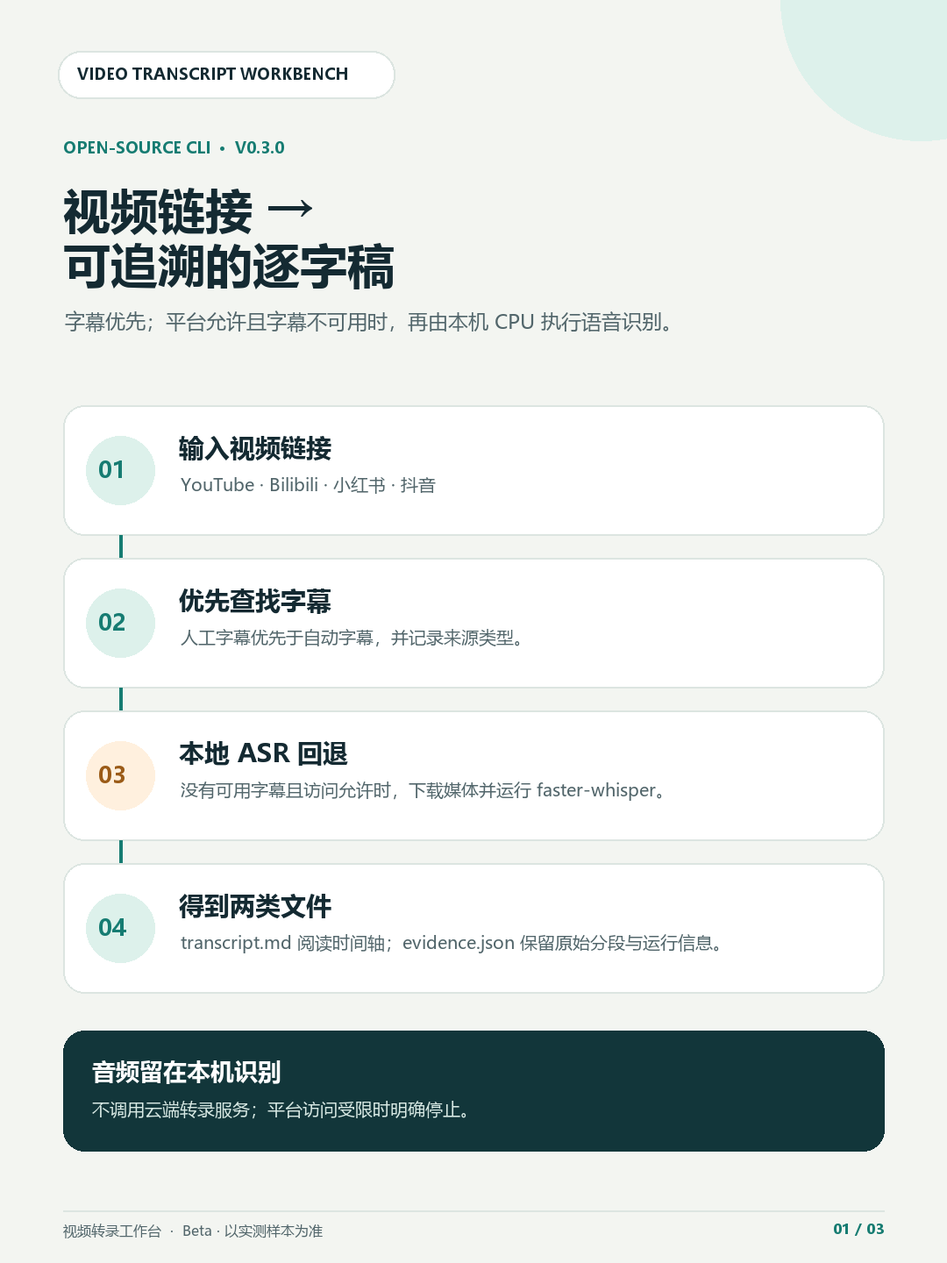
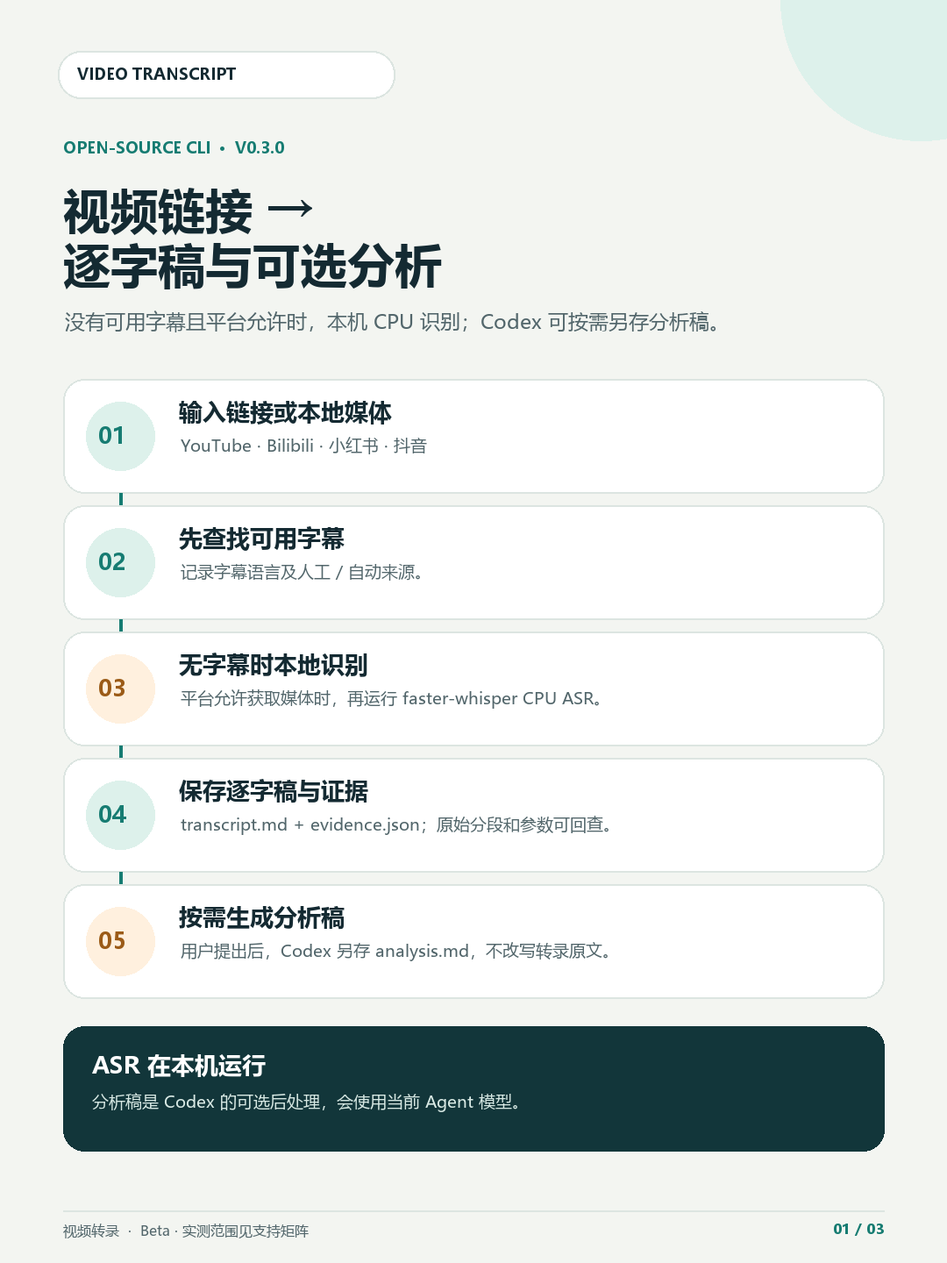
docs: clarify transcript and Codex analysis workflow

diff --git a/docs/assets/generate_social_cards.py b/docs/assets/generate_social_cards.py
@@ -60,59 +60,63 @@ def base(title, subtitle, page):
     # quiet editorial accents
     d.ellipse((890, -160, 1210, 160), fill=MINT)
     rounded(d, (66, 58, 450, 112), 26, fill=WHITE, outline=LINE, width=2)
-    d.text((88, 71), "VIDEO TRANSCRIPT WORKBENCH", font=font(18, True), fill=INK)
+    d.text((88, 71), "VIDEO TRANSCRIPT", font=font(18, True), fill=INK)
     d.text((72, 155), "OPEN-SOURCE CLI  ·  V0.3.0", font=font(18, True), fill=TEAL)
     paragraph(d, (72, 202), title, font(54, True), INK, 910, leading=7, max_lines=2)
     paragraph(d, (74, 350), subtitle, font(23), MUTED, 900, leading=8, max_lines=2)
     d.line((72, 1380, 1008, 1380), fill=LINE, width=2)
-    d.text((72, 1392), "视频转录工作台  ·  Beta · 以实测样本为准", font=font(16), fill=MUTED)
+    d.text((72, 1392), "视频转录  ·  Beta · 实测范围见支持矩阵", font=font(16), fill=MUTED)
     d.text((950, 1390), page, font=font(16, True), fill=TEAL)
     return im, d
 
 
 def card_workflow():
-    im, d = base("视频链接 →\n可追溯的逐字稿", "字幕优先；平台允许且字幕不可用时，再由本机 CPU 执行语音识别。", "01 / 03")
+    im, d = base("视频链接 →\n逐字稿与可选分析", "没有可用字幕且平台允许时，本机 CPU 识别；Codex 可按需另存分析稿。", "01 / 03")
     steps = [
-        ("01", "输入视频链接", "YouTube · Bilibili · 小红书 · 抖音"),
-        ("02", "优先查找字幕", "人工字幕优先于自动字幕，并记录来源类型。"),
-        ("03", "本地 ASR 回退", "没有可用字幕且访问允许时，下载媒体并运行 faster-whisper。"),
-        ("04", "得到两类文件", "transcript.md 阅读时间轴；evidence.json 保留原始分段与运行信息。"),
+        ("01", "输入链接或本地媒体", "YouTube · Bilibili · 小红书 · 抖音"),
+        ("02", "先查找可用字幕", "记录字幕语言及人工 / 自动来源。"),
+        ("03", "无字幕时本地识别", "平台允许获取媒体时，再运行 faster-whisper CPU ASR。"),
+        ("04", "保存逐字稿与证据", "transcript.md + evidence.json；原始分段和参数可回查。"),
+        ("05", "按需生成分析稿", "用户提出后，Codex 另存 analysis.md，不改写转录原文。"),
     ]
-    y = 462
+    y = 432
+    row_h = 130
+    row_step = 144
     for i, (num, title, desc) in enumerate(steps):
-        rounded(d, (72, y, 1008, y + 148), 24, fill=WHITE, outline=LINE, width=2)
-        d.ellipse((98, y + 35, 176, y + 113), fill=MINT if i != 2 else PALE_ORANGE)
-        d.text((112, y + 55), num, font=font(26, True), fill=TEAL if i != 2 else "#9B5B17")
-        d.text((204, y + 28), title, font=font(29, True), fill=INK)
-        paragraph(d, (206, y + 76), desc, font(20), MUTED, 745, leading=4, max_lines=2)
+        accent = i in (2, 4)
+        rounded(d, (72, y, 1008, y + row_h), 24, fill=WHITE, outline=LINE, width=2)
+        d.ellipse((98, y + 26, 176, y + 104), fill=PALE_ORANGE if accent else MINT)
+        d.text((112, y + 46), num, font=font(26, True), fill="#9B5B17" if accent else TEAL)
+        d.text((204, y + 18), title, font=font(27, True), fill=INK)
+        paragraph(d, (206, y + 62), desc, font(19), MUTED, 745, leading=3, max_lines=2)
         if i < len(steps) - 1:
-            d.line((137, y + 148, 137, y + 177), fill=TEAL, width=4)
-        y += 174
-    rounded(d, (72, 1175, 1008, 1312), 24, fill=DARK)
-    d.text((105, 1202), "音频留在本机识别", font=font(27, True), fill=WHITE)
-    d.text((105, 1250), "不调用云端转录服务；平台访问受限时明确停止。", font=font(20), fill="#D8E9E4")
+            d.line((137, y + row_h, 137, y + row_step), fill=TEAL, width=4)
+        y += row_step
+    rounded(d, (72, 1170, 1008, 1312), 24, fill=DARK)
+    d.text((105, 1195), "ASR 在本机运行", font=font(27, True), fill=WHITE)
+    d.text((105, 1242), "分析稿是 Codex 的可选后处理，会使用当前 Agent 模型。", font=font(19), fill="#D8E9E4")
     return im
 
 
 def card_output():
-    im, d = base("输出不是一段纯文本", "Markdown 方便阅读；Evidence 保留可以回查的原始分段和运行信息。", "02 / 03")
+    im, d = base("三类文件，各自分开", "CLI 保存原稿和证据；Codex 可按需另存分析稿，不覆盖原始转录。", "02 / 03")
     # Transcript mock
-    rounded(d, (72, 432, 1008, 912), 28, fill=WHITE, outline=LINE, width=2)
-    rounded(d, (98, 458, 328, 504), 20, fill=MINT)
+    rounded(d, (72, 432, 1008, 794), 28, fill=WHITE, outline=LINE, width=2)
+    rounded(d, (98, 452, 328, 498), 20, fill=MINT)
     d.text((118, 468), "transcript.md", font=font(19, True, mono=True), fill=TEAL)
-    rounded(d, (732, 458, 974, 504), 20, fill=PALE_ORANGE)
-    d.text((752, 468), "格式示意 · 虚构文本", font=font(16, True), fill="#94581A")
-    d.text((106, 543), "示例视频逐字稿", font=font(27, True), fill=INK)
-    d.line((106, 592, 974, 592), fill=LINE, width=2)
-    d.text((108, 625), "00:00:01.200 — 00:00:03.600", font=font(19, True, mono=True), fill=TEAL)
-    paragraph(d, (108, 665), "今天我们聊聊语音识别的工程设计。", font(24), INK, 830, leading=7)
-    d.text((108, 734), "00:00:04.000 — 00:00:06.200", font=font(19, True, mono=True), fill=TEAL)
-    paragraph(d, (108, 774), "每个片段都有时间范围，方便回听核对。", font(24), INK, 830, leading=7)
-    d.text((108, 844), "……", font=font(24), fill=MUTED)
+    rounded(d, (732, 452, 974, 498), 20, fill=PALE_ORANGE)
+    d.text((752, 462), "虚构格式示例", font=font(16, True), fill="#94581A")
+    d.text((106, 520), "示例视频逐字稿", font=font(25, True), fill=INK)
+    d.line((106, 560, 974, 560), fill=LINE, width=2)
+    d.text((108, 582), "00:00:01.200 — 00:00:03.600", font=font(18, True, mono=True), fill=TEAL)
+    paragraph(d, (108, 620), "今天我们聊聊语音识别的工程设计。", font(22), INK, 830, leading=5)
+    d.text((108, 680), "00:00:04.000 — 00:00:06.200", font=font(18, True, mono=True), fill=TEAL)
+    paragraph(d, (108, 718), "每个片段都有时间范围，方便回听核对。", font(22), INK, 830, leading=5)
+    d.text((108, 762), "……", font=font(22), fill=MUTED)
     # Evidence mock
-    rounded(d, (72, 942, 1008, 1270), 28, fill=DARK)
-    rounded(d, (98, 968, 306, 1014), 20, fill="#204A4B")
-    d.text((117, 977), "evidence.json", font=font(19, True, mono=True), fill="#BCE5D9")
+    rounded(d, (72, 812, 1008, 1027), 28, fill=DARK)
+    rounded(d, (98, 831, 306, 877), 20, fill="#204A4B")
+    d.text((117, 840), "evidence.json", font=font(19, True, mono=True), fill="#BCE5D9")
     code = [
         '{ "method": "local_asr",',
         '  "model": "small", "device": "cpu",',
@@ -120,18 +124,24 @@ def card_output():
         '  "segments": [{"start": 1.2, "end": 3.6, ...}] }',
     ]
     for i, line in enumerate(code):
-        d.text((108, 1042 + i * 45), line, font=font(20, mono=True), fill="#E6F2EF")
-    d.text((74, 1300), "内容为演示示例，不来自真实用户视频。", font=font(17, True), fill=MUTED)
+        d.text((108, 891 + i * 35), line, font=font(17, mono=True), fill="#E6F2EF")
+    rounded(d, (72, 1045, 1008, 1285), 28, fill=PALE_ORANGE, outline=LINE, width=2)
+    rounded(d, (98, 1064, 306, 1110), 20, fill=WHITE)
+    d.text((117, 1073), "analysis.md", font=font(19, True, mono=True), fill="#94581A")
+    d.text((106, 1130), "Codex 按需生成分析文稿", font=font(25, True), fill=INK)
+    paragraph(d, (108, 1175), "基于逐字稿整理摘要、观点和时间戳依据。", font(20), MUTED, 830, leading=4, max_lines=2)
+    d.text((108, 1240), "单独保存，不覆盖原始转录。", font=font(18, True), fill="#94581A")
+    d.text((74, 1302), "三份文件为虚构示例；analysis.md 不是 CLI 默认输出。", font=font(16, True), fill=MUTED)
     return im
 
 
 def card_status():
-    im, d = base("平台结果按样本披露", "提取器能识别平台，不等于每条视频都能访问或转录。", "03 / 03")
+    im, d = base("多轮平台实测，按路径披露", "公开样本检查与自动化回归分别统计，成功结果仍按具体路径说明。", "03 / 03")
     rows = [
-        ("YouTube", "人工 / 自动字幕：实测样本通过", "PASS", TEAL, MINT),
-        ("Bilibili", "音轨下载 → 本地 ASR：样本通过；字幕未验证", "样本通过", TEAL, MINT),
-        ("小红书", "HTTPS MP4 → 本地 ASR：1 个样本通过", "单样本", TEAL, MINT),
-        ("抖音 Douyin", "fresh-cookie challenge 阻断；在线端到端未通过", "受限", "#9B5B17", PALE_ORANGE),
+        ("YouTube", "5 个公开视频做字幕和下载诊断；2 条人工字幕、1 条自动字幕路径通过。", "字幕通过", TEAL, MINT),
+        ("Bilibili", "R0 检查 6 个视频，R1 再查 3 个页面；1 条无字幕音轨 ASR 成功，字幕未验证。", "ASR 通过", TEAL, MINT),
+        ("小红书", "多轮链接、网络和 HTTPS 媒体诊断；1 条公开视频完成 MP4 → ASR。", "端到端通过", TEAL, MINT),
+        ("抖音 Douyin", "公开样本复核仍遇 fresh-cookie challenge；在线转录未通过。", "受限", "#9B5B17", PALE_ORANGE),
     ]
     y = 430
     for platform, detail, badge, color, pale in rows:
@@ -143,8 +153,8 @@ def card_status():
         paragraph(d, (106, y + 88), detail, font(20), MUTED, 850, leading=5, max_lines=2)
         y += 177
     rounded(d, (72, 1150, 1008, 1312), 25, fill=DARK)
-    d.text((104, 1178), "准确率还没有 CER 基准", font=font(26, True), fill=WHITE)
-    paragraph(d, (106, 1226), "目前没有人工校订参考稿；这些流程实测不代表识别准确率，也不保证其他链接成功。", font(18), "#D8E9E4", 850, leading=4, max_lines=3)
+    d.text((104, 1178), "86 项自动化回归测试", font=font(26, True), fill=WHITE)
+    paragraph(d, (106, 1226), "测试含合成案例，不等于 86 条真实视频。ASR 也尚无人工校订 CER 基准。", font(18), "#D8E9E4", 850, leading=4, max_lines=3)
     return im
 
 

diff --git a/README.en.md b/README.en.md
@@ -1,11 +1,13 @@
-# Video Transcript Workbench
+# Video Transcript
 
-**Online CLI Beta v0.3.0**<br>
+**Video Transcript Workbench · Online CLI Beta v0.3.0**<br>
 [简体中文](README.md) · [Online platform verification matrix](docs/online-support-matrix.md)
 
-Video Transcript Workbench is a command-line tool for turning online video links and local media into traceable transcripts. It prefers available subtitles, then uses local CPU speech recognition when subtitles are unavailable and platform access allows media retrieval. Outputs include timestamped Markdown and `evidence.json`.
+Video Transcript handles online links and local media. For online links it checks for usable subtitles first. When none match, and the platform permits media retrieval and the machine has enough resources, it runs CPU speech recognition locally. This provides a path for some videos without usable subtitles, subject to platform access.
 
-> This is a sample-verified Beta. It does not guarantee that every video or network environment will work. Claims are limited to the specific paths marked PASS in the support matrix.
+The CLI writes a timestamped `transcript.md` and an `evidence.json` with raw segments, source, and run settings. With the Codex project Skill, users can also request a separate analysis document based on the transcript. That is an optional agent step; it does not rewrite the transcript and is not generated by the CLI by default.
+
+> The Beta has gone through multiple real-platform sample checks and automated regression runs. Public claims are scoped by platform and processing path; they do not guarantee success for every video.
 
 ## What is this, and how do I use it?
 
@@ -15,9 +17,9 @@ The core product is a standalone Python command-line tool (CLI). This repository
 
 1. Open the repository root in Codex.
 2. Install the CLI using the instructions below and make a local Whisper model available.
-3. Ask for a transcript directly, or invoke $video-transcript-workbench explicitly. For example: “Use $video-transcript-workbench to transcribe this link in Chinese and save it under D:\transcripts\run-01.”
+3. Ask for a transcript directly, or invoke the shorter Skill name `$video-transcript`. For example: “Use `$video-transcript` to transcribe this link in Chinese and save it under D:\transcripts\run-01.”
 
-The Skill is at [.codex/skills/video-transcript-workbench/SKILL.md](.codex/skills/video-transcript-workbench/SKILL.md). It chooses the online-link, subtitles-only, or local-media entry point and checks transcript.md and evidence.json. It does not install dependencies, download model weights, or bypass platform checks.
+The Skill is at [.codex/skills/video-transcript/SKILL.md](.codex/skills/video-transcript/SKILL.md). It selects the online-link, subtitles-only, or local-media entry point and checks the CLI output. If you request analysis, Codex reads the transcript and writes a separate `analysis.md`; the transcript may be processed by the active Codex model. The analysis file stays separate from the source transcript.
 
 ### Use the CLI on its own
 
@@ -36,24 +38,25 @@ Other agents can call the CLI if they can access a local terminal and files, but
 ASR runs locally. If you ask a cloud agent to read or summarize the transcript, the text may be processed by that agent's model service. For transcription only, you can run the CLI directly and keep the output local.
 ## Workflow
 
-![Workflow: try manual and automatic subtitles first, then local CPU ASR when platform access permits, and save transcript and evidence files](docs/assets/xhs-01-workflow.png)
+![Workflow: subtitles first; local CPU ASR when subtitles are unavailable and platform access permits; Codex can optionally write a separate analysis document](docs/assets/xhs-01-workflow.png)
 
 1. Provide a YouTube, Bilibili, Douyin, or Xiaohongshu video link, or select a local media file.
 2. For online links, look for a matching manual subtitle track, then an automatic track.
 3. If no usable subtitles are available, retrieve audio or an audio-containing MP4 only when normal platform access permits, then run faster-whisper locally on CPU/int8.
-4. Write the timestamped transcript to `transcript.md` and raw segments, source, and run settings to `evidence.json`.
+4. The CLI writes the timestamped transcript to `transcript.md` and raw segments, source, and run settings to `evidence.json`.
+5. When the user asks for analysis, Codex can use the transcript to create a separate `analysis.md` without changing the transcript.
 
 Original subtitle and ASR segment text is preserved. Formatting does not overwrite raw segments. The tool does not call a cloud transcription service, read browser cookies, or bypass login, human-verification, or regional restrictions.
 
 ## Output preview
 
-![Illustrative Markdown transcript and evidence JSON layout with fictional content](docs/assets/xhs-02-output-preview.png)
+![Illustrative outputs: transcript.md and evidence.json from the CLI, plus an optional separate analysis.md from Codex; all content is fictional](docs/assets/xhs-02-output-preview.png)
 
-The title, transcript, and JSON shown above are **fictional format examples**. They do not come from a user's video and do not indicate transcription accuracy.
+The transcript, JSON, and analysis text shown above are **fictional format examples**. `analysis.md` is not produced by the CLI; Codex creates it only when requested. The examples do not indicate transcription accuracy.
 
 ## Online platform status
 
-![Sample-scoped platform status: YouTube subtitle retrieval, Bilibili audio ASR, and one Xiaohongshu MP4 ASR sample passed; Douyin access is blocked](docs/assets/xhs-03-platform-status.png)
+![Platform verification scope: multiple public-video checks, successful paths, and access limits; 86 automated regression tests are counted separately](docs/assets/xhs-03-platform-status.png)
 
 | Platform and path | Status | Verification |
 |---|---|---|
@@ -66,7 +69,15 @@ The title, transcript, and JSON shown above are **fictional format examples**. T
 | Xiaohongshu subtitle retrieval | Not tested | No real subtitle-track parsing success has been verified. |
 | Douyin online transcription | Restricted | The real sample hit a fresh-cookie challenge; no online end-to-end transcription passed, and the tool does not read or obtain credentials. |
 
-See the [online support matrix](docs/online-support-matrix.md) for sample details and user-visible limitations. **There is no CER benchmark against human-verified references, so this project makes no model-ranking or universal accuracy claim.**
+### Sample coverage
+
+- YouTube: five distinct public videos were used for subtitle, parser, or media-transfer diagnostics. Manual subtitle retrieval succeeded on two videos and automatic subtitle retrieval on one. Two transfer diagnostics stopped at a platform access check; only one was a no-subtitle ASR fallback sample.
+- Bilibili: R0 checked six public videos, and R1 checked three additional public pages for metadata and subtitle tracks. One no-subtitle audio sample completed local ASR; no real subtitle-success sample is available.
+- Xiaohongshu: multiple URL, network, and HTTPS-media diagnostics were run; one public video completed the MP4-to-local-ASR path.
+- Douyin: a public sample was rechecked and hit a fresh-cookie challenge; online transcription did not complete.
+- The 86 automated regression tests are counted separately. They include offline and synthetic cases and do not represent 86 real videos.
+
+See the [online support matrix](docs/online-support-matrix.md) for sample coverage and user-visible limitations. Public-video checks, successful paths, and automated regression tests are reported separately. **There is no CER benchmark against human-verified references, so this project makes no model-ranking or universal accuracy claim.**
 
 ## Commands
 

diff --git a/docs/xiaohongshu/图文发布素材.md b/docs/xiaohongshu/图文发布素材.md
@@ -6,15 +6,15 @@
 
 建议按以下顺序作为三张竖版图：
 
-1. [处理流程图](../assets/xhs-01-workflow.png)：说明从视频链接到字幕/本地 ASR，再到逐字稿和证据文件。
-2. [输出效果示意](../assets/xhs-02-output-preview.png)：展示 Markdown 时间轴和 evidence JSON 的结构。示例文字为虚构内容。
-3. [平台实测状态](../assets/xhs-03-platform-status.png)：用样本级事实说明哪些路径通过、受限或尚未验证。
+1. [处理流程图](../assets/xhs-01-workflow.png)：说明字幕优先、本地 ASR 回退，以及 Codex 按需生成分析文稿的流程。
+2. [输出效果示意](../assets/xhs-02-output-preview.png)：区分 CLI 生成的 Markdown 时间轴、evidence JSON 和 Codex 按需生成的独立分析稿。示例文字为虚构内容。
+3. [平台实测状态](../assets/xhs-03-platform-status.png)：披露公开视频检查范围、通过路径和访问限制；不把 86 项自动化回归当成视频样本数。
 
 源图均为 1080 × 1440 PNG。可编辑生成脚本：[generate_social_cards.py](../assets/generate_social_cards.py)。
 
 ## 标题候选
 
-- 视频链接转逐字稿：字幕优先，没字幕再本地识别
+- 视频链接转文字：有字幕先提取，没有字幕时尝试本地识别
 - 一个本地优先的视频转录 CLI，终于跑通真实链路
 - 转录结果不只是一段文字：还保留时间轴和来源证据
 
@@ -22,18 +22,22 @@
 
 ## 图文正文草稿
 
-最近把一个开源 CLI 做到了可以真实跑通的阶段：输入在线视频链接，先尝试获取人工字幕或自动字幕；在平台允许访问、也没有可用字幕时，再下载媒体并在本机用 CPU 做语音识别。
+这是一个视频转录 CLI，最近也加上了 Codex 项目 Skill。输入在线视频链接后，工具先尝试获取人工或自动字幕；没有可用字幕且平台允许媒体访问时，再下载音轨或带音轨视频，在本机用 CPU 做语音识别。除了利用已有字幕，它也提供无字幕时的本地 ASR 路径，实际能否使用仍由平台访问条件决定。
 
-结果会生成两份文件：
+CLI 会生成两份文件：
 
 - `transcript.md`：带时间轴、方便阅读的逐字稿
 - `evidence.json`：保留原始分段、来源、模型和运行信息，便于回看结果是怎么来的
 
-目前的实测是按具体样本记录的：YouTube 的人工和自动字幕路径通过；Bilibili 的无字幕音轨转录通过；小红书有一条公开视频完成 HTTPS MP4 到本地 ASR 的完整流程。抖音在线流程仍被平台访问验证阻断，Bilibili 和小红书的字幕成功路径也还没有实测通过。
+如果在 Codex 中明确要求分析，项目 Skill 可以基于逐字稿另存 `analysis.md`，整理摘要、观点和对应时间戳，不改写原始转录。这一步由当前 Agent 模型完成，逐字稿会进入该模型的处理上下文；CLI 本身不生成分析稿。
+
+此前对 YouTube 使用了 5 条公开视频做字幕、解析和媒体传输诊断，3 条字幕样本路径成功；Bilibili 在 R0 检查了 6 个公开视频，R1 又检查 3 个页面，其中一条完成无字幕音轨转录；小红书经过多轮 URL、网络和 HTTPS 媒体诊断后，有一条公开视频完成端到端转录。抖音公开样本仍遇平台访问验证。86 项自动化回归测试单独统计，不等于 86 条真实视频。
+
+完整范围和具体状态见 README 的[在线平台实测矩阵](../online-support-matrix.md)。样本测试说明哪些路径曾经跑通，不代表所有视频都能处理。
 
 所以这不是“四个平台全部畅通”的承诺。平台可能要求验证、没有字幕或无法提供可访问媒体；遇到这些情况，工具会报告限制，不读取浏览器 Cookie，也不绕过平台检查。
 
-另一个我很看重的点是：原始识别分段会保存在证据文件里，Markdown 负责时间轴展示，不会用润色后的文字覆盖原始结果。目前还没有人工校订稿 CER 基准，因此也不宣称某个模型准确率最高。
+原始识别分段会保存在证据文件里，逐字稿负责展示时间轴；Codex 生成的分析稿则另存一份。现在还没有人工校订稿 CER 基准，因此不宣称某个模型准确率最高。
 
 项目采用 MIT 许可证。欢迎看代码、提问题或参与改进。Windows 安装步骤、命令示例和完整样本状态放在项目 README。
 

diff --git a/.codex/skills/video-transcript/SKILL.md b/.codex/skills/video-transcript/SKILL.md
@@ -1,11 +1,11 @@
 ---
-name: video-transcript-workbench
-description: Use the local Video Transcript Workbench CLI to transcribe supported video links or local audio/video and verify the output files. Use when a user asks to create a transcript from media; not for changing the transcription engine.
+name: video-transcript
+description: Use the local Video Transcript CLI to transcribe supported video links or local audio/video, verify outputs, or create a separate analysis note from a transcript when requested. Do not use for changing the transcription engine.
 ---
 
-# Video Transcript Workbench
+# Video Transcript
 
-Use the installed Video Transcript Workbench CLI as the transcription engine. This skill routes the request and checks the output; it does not perform ASR itself.
+Use the installed Video Transcript CLI entry points as the transcription engine. This skill routes the request and checks the output; it does not perform ASR itself.
 
 ## Choose the command
 
@@ -43,8 +43,18 @@ After the command exits:
 - Report output paths, selected method (manual subtitle, automatic subtitle, or local ASR), and model/device when available. Do not paste the full transcript unless asked.
 - Never claim a CER score, accuracy ranking, or universal platform compatibility; the project has no human-reference CER benchmark.
 
+## Optional analysis document
+
+Only create an analysis document when the user asks for analysis, a summary, or another written interpretation. The CLI does not generate this file.
+
+1. Confirm that a successful `transcript.md` exists. If transcription failed, report that first and do not invent an analysis from partial evidence.
+2. Tell the user that analysis requires the agent to read the transcript and that the text may be processed by the active model service. When the user requested analysis, continue with that requested task; do not send the transcript to a separate service.
+3. Create `analysis.md` next to the transcript, or use the path requested by the user. If the target already exists, choose a new filename or ask where to save it. Never overwrite `transcript.md` or `evidence.json`.
+4. Shape the analysis to the user's request. If no format is specified, provide a concise summary, key points with transcript time ranges, and a short section for claims or uncertainties that need verification.
+5. Separate what the speaker said from the agent's interpretation. Refer to timestamps for transcript-grounded claims, flag possible ASR errors when wording is unclear, and do not silently correct the source transcript. Do not add outside research unless requested.
+
 ## Privacy and access
 
-The CLI keeps ASR local and does not use cloud transcription. Online access and downloaded media still depend on platform rules and the user's rights. Do not retrieve credentials or attempt to defeat login, human-verification, permission, or regional checks.
+The CLI keeps ASR local and does not use cloud transcription. An optional analysis document is generated by the active agent/model, not by the local CLI. Online access and downloaded media still depend on platform rules and the user's rights. Do not retrieve credentials or attempt to defeat login, human-verification, permission, or regional checks.
 
 If the user asks the agent to read, summarize, translate, or analyze the transcript, explain that this may send transcript text to the agent's model service when applicable. If they only asked for transcription, return the local output paths without loading the transcript contents.

diff --git a/docs/online-support-matrix.md b/docs/online-support-matrix.md
@@ -15,6 +15,19 @@ Updated: 2026-10-20. This is a public, sample-scoped compatibility summary. PASS
 | Xiaohongshu audio fallback when subtitles are unavailable | PASS (one sample) | Page-provided HTTPS `og:video` MP4 returned 206 `video/mp4` for a 1 KiB range probe; bounded 85,787,212-byte MP4 download then passed PyAV audio/video validation and small/CPU/int8 ASR, producing 408 segments. |
 | Local media CPU transcription | PASS | Windows Python 3.11.9, cached small model, CPU/int8 real run. |
 
+## Real-sample coverage
+
+The following counts summarize the R0/R1 and release checks. A page check, a successful subtitle path, and an end-to-end ASR run are different measurements; they are not interchangeable.
+
+| Platform | Public sample checks | Verified result |
+|---|---|---|
+| YouTube | Five distinct public videos were used for subtitle, parser, or media-transfer diagnostics. | Manual subtitle retrieval succeeded on two videos and automatic subtitle retrieval on one. Two media-transfer diagnostics stopped at a platform access check; only one was the no-subtitle ASR fallback sample. |
+| Bilibili | R0 checked six public videos; R1 checked three additional public pages for metadata and subtitle tracks. | One no-subtitle audio sample completed local ASR. No usable subtitle track was found in these checks, so subtitle-success remains unverified. |
+| Xiaohongshu | Multiple URL, network, page, and HTTPS-media diagnostics were performed. | One public video completed HTTPS MP4 retrieval, audio decoding, and local ASR. |
+| Douyin | A public sample was checked and rechecked through the available anonymous access path. | A fresh-cookie challenge stopped metadata or media retrieval; no online end-to-end ASR passed. |
+
+The release regression suite contains 86 automated tests, including synthetic and offline cases. Those tests are reported separately and do not represent 86 real videos. The real-platform checks above are targeted compatibility checks, not a random or representative market sample. ASR has no CER benchmark against human-verified references.
+
 ## User-visible limitations
 
 - Subtitle availability depends on each video's subtitle tracks and the requested language.

diff --git a/AGENTS.md b/AGENTS.md
@@ -1,6 +1,6 @@
 # Codex project guidance
 
-- For a user request to transcribe an online video link or local audio/video with this project, use the `$video-transcript-workbench` skill at `.codex/skills/video-transcript-workbench/SKILL.md`.
+- For a user request to transcribe media or create an analysis note from a transcript, use the `$video-transcript` skill at `.codex/skills/video-transcript/SKILL.md`.
 - The Python CLI is the transcription engine. The skill only routes the request, runs the CLI in the available local environment, and verifies its outputs.
 - Read `docs/online-support-matrix.md` before making platform-support claims. Do not generalize sample-level PASS results to every video.
 - Keep transcript outputs outside the Git working tree unless the user explicitly chooses another path. Never commit media, transcripts, evidence, credentials, or signed URLs.
